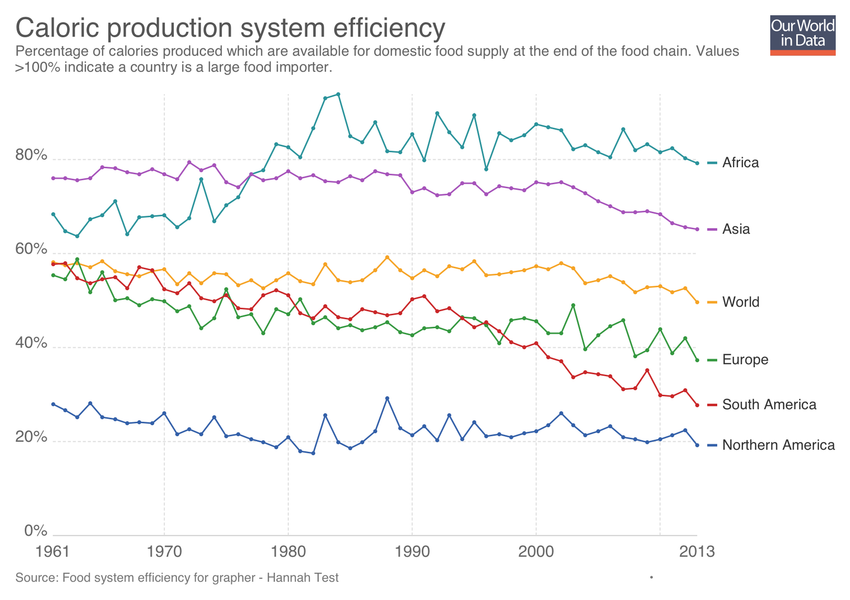
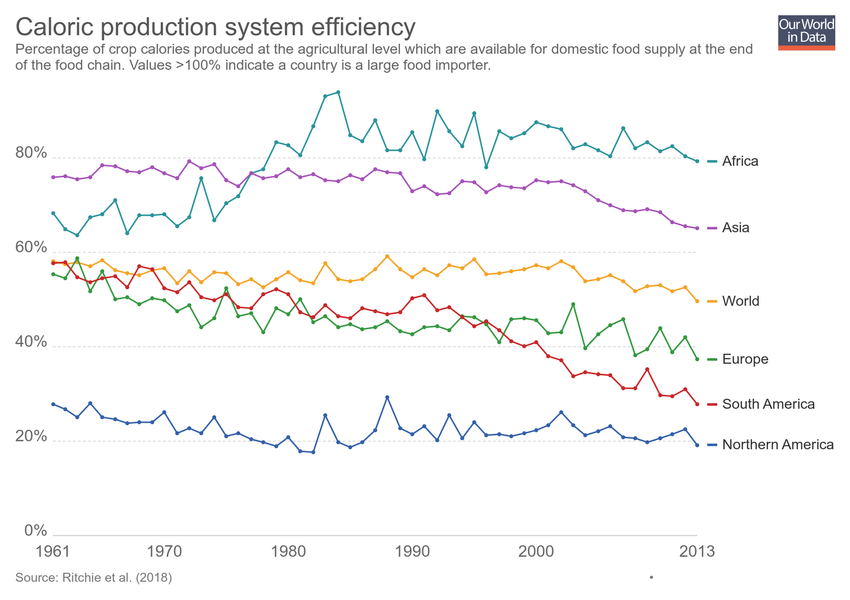
Updating chart food-system-efficiency

diff --git a/grapher/food-system-efficiency.html b/grapher/food-system-efficiency.html
@@ -1,4 +1,4 @@
-<!doctype html><html><head><meta name="viewport" content="width=device-width, initial-scale=1" /><title>Caloric production system efficiency - Our World in Data</title><meta name="description" content="Percentage of calories produced which are available for domestic food supply at the end of the food chain. Values &gt;100% indicate a country is a large food importer." /><link rel="canonical" href="https://ourworldindata.org/grapher/food-system-efficiency" /><meta property="fb:app_id" content="1149943818390250" /><meta property="og:url" content="https://ourworldindata.org/grapher/food-system-efficiency" /><meta property="og:title" content="Caloric production system efficiency" /><meta property="og:description" content="Percentage of calories produced which are available for domestic food supply at the end of the food chain. Values &gt;100% indicate a country is a large food importer." /><meta property="og:image" content="https://ourworldindata.org/grapher/exports/food-system-efficiency.png?v=1" /><meta property="og:image:width" content="850" /><meta property="og:image:height" content="600" /><meta property="og:site_name" content="Our World in Data" /><meta name="twitter:card" content="summary_large_image" /><meta name="twitter:site" content="@OurWorldInData" /><meta name="twitter:creator" content="@OurWorldInData" /><meta name="twitter:title" content="Caloric production system efficiency" /><meta name="twitter:description" content="Percentage of calories produced which are available for domestic food supply at the end of the food chain. Values &gt;100% indicate a country is a large food importer." /><meta name="twitter:image" content="https://ourworldindata.org/grapher/exports/food-system-efficiency.png?v=1" /><style>
+<!doctype html><html><head><meta name="viewport" content="width=device-width, initial-scale=1" /><title>Caloric production system efficiency - Our World in Data</title><meta name="description" content="Percentage of crop calories produced at the agricultural level which are available for domestic food supply at the end of the food chain. Values &gt;100% indicate a country is a large food importer." /><link rel="canonical" href="https://ourworldindata.org/grapher/food-system-efficiency" /><meta property="fb:app_id" content="1149943818390250" /><meta property="og:url" content="https://ourworldindata.org/grapher/food-system-efficiency" /><meta property="og:title" content="Caloric production system efficiency" /><meta property="og:description" content="Percentage of crop calories produced at the agricultural level which are available for domestic food supply at the end of the food chain. Values &gt;100% indicate a country is a large food importer." /><meta property="og:image" content="https://ourworldindata.org/grapher/exports/food-system-efficiency.png?v=2" /><meta property="og:image:width" content="850" /><meta property="og:image:height" content="600" /><meta property="og:site_name" content="Our World in Data" /><meta name="twitter:card" content="summary_large_image" /><meta name="twitter:site" content="@OurWorldInData" /><meta name="twitter:creator" content="@OurWorldInData" /><meta name="twitter:title" content="Caloric production system efficiency" /><meta name="twitter:description" content="Percentage of crop calories produced at the agricultural level which are available for domestic food supply at the end of the food chain. Values &gt;100% indicate a country is a large food importer." /><meta name="twitter:image" content="https://ourworldindata.org/grapher/exports/food-system-efficiency.png?v=2" /><style>
         html, body {
             height: 100%;
             margin: 0;
@@ -20,8 +20,8 @@
         }
     </style><noscript><style>
                     figure { display: none !important; }
-                </style></noscript><link rel="stylesheet" href="https://ourworldindata.org/grapher/assets/commons.bundle.019a92548339820130b6.css" /><link rel="preload" href="/grapher/data/variables/42573.json?v=1" as="fetch" crossorigin /></head><body class="singleChart"><figure data-grapher-src="/grapher/food-system-efficiency"></figure><noscript id="fallback"><img src="/grapher/exports/food-system-efficiency.svg" /><p>Interactive visualization requires JavaScript</p></noscript><script src="https://cdn.polyfill.io/v2/polyfill.min.js?features=es6,fetch"></script><script src="https://ourworldindata.org/grapher/assets/commons.bundle.019a92548339820130b6.js"></script><script src="https://ourworldindata.org/grapher/assets/charts.bundle.dcf65b68eddaba4c6a58.js"></script><script>
-        var jsonConfig = {"id":1008,"map":{"projection":"World","targetYear":2013,"variableId":42573,"timeTolerance":1,"legendStepSize":20,"baseColorScheme":"YlGnBu","isManualBuckets":true,"colorSchemeInvert":false,"colorSchemeLabels":["","","","","","","","","",""],"colorSchemeValues":[10,15,20,30,40,60,80,100,250,500],"defaultProjection":"World","legendDescription":"Caloric production system efficiency","customColorsActive":false,"colorSchemeMinValue":0,"customNumericColors":[],"customCategoryColors":{},"customCategoryLabels":{},"customHiddenCategories":{}},"tab":"chart","note":"","slug":"food-system-efficiency","type":"LineChart","title":"Caloric production system efficiency","xAxis":{"scaleType":"linear"},"yAxis":{"min":0,"suffix":" %","scaleType":"linear","labelDistance":-10},"version":1,"subtitle":"Percentage of calories produced which are available for domestic food supply at the end of the food chain. Values >100% indicate a country is a large food importer.","hasMapTab":true,"originUrl":"","stackMode":null,"dimensions":[{"id":9074,"order":0,"chartId":1008,"display":{"unit":"%"},"property":"y","targetYear":null,"variableId":42573}],"entityType":"country","hideLegend":false,"hasChartTab":true,"isPublished":true,"selectedData":[{"index":0,"entityId":355},{"index":0,"entityId":450},{"index":0,"entityId":276},{"index":0,"entityId":273},{"index":0,"entityId":275},{"index":0,"entityId":295}],"internalNotes":"TEST FOR HANNAH - Please don't share","addCountryMode":"add-country","hideRelativeToggle":false};
+                </style></noscript><link rel="stylesheet" href="https://ourworldindata.org/grapher/assets/commons.bundle.019a92548339820130b6.css" /><link rel="preload" href="/grapher/data/variables/42573.json?v=2" as="fetch" crossorigin /></head><body class="singleChart"><figure data-grapher-src="/grapher/food-system-efficiency"></figure><noscript id="fallback"><img src="/grapher/exports/food-system-efficiency.svg" /><p>Interactive visualization requires JavaScript</p></noscript><script src="https://cdn.polyfill.io/v2/polyfill.min.js?features=es6,fetch"></script><script src="https://ourworldindata.org/grapher/assets/commons.bundle.019a92548339820130b6.js"></script><script src="https://ourworldindata.org/grapher/assets/charts.bundle.dcf65b68eddaba4c6a58.js"></script><script>
+        var jsonConfig = {"id":1008,"map":{"projection":"World","targetYear":2013,"variableId":42573,"timeTolerance":1,"baseColorScheme":"YlGnBu","isManualBuckets":true,"colorSchemeInvert":false,"colorSchemeLabels":["","","","","","","","","",""],"colorSchemeValues":[10,15,20,30,40,60,80,100,250,500],"legendDescription":"Caloric production system efficiency","customColorsActive":false,"colorSchemeMinValue":0,"customNumericColors":[],"customCategoryColors":{},"customCategoryLabels":{},"customHiddenCategories":{}},"tab":"chart","note":"","slug":"food-system-efficiency","type":"LineChart","title":"Caloric production system efficiency","xAxis":{"scaleType":"linear"},"yAxis":{"min":0,"suffix":" %","scaleType":"linear","labelDistance":-10},"version":2,"subtitle":"Percentage of crop calories produced at the agricultural level which are available for domestic food supply at the end of the food chain. Values >100% indicate a country is a large food importer.","hasMapTab":true,"originUrl":"","stackMode":null,"dimensions":[{"display":{"unit":"%"},"property":"y","variableId":42573}],"entityType":"country","hideLegend":false,"sourceDesc":"Ritchie et al. (2018)","hasChartTab":true,"isPublished":true,"selectedData":[{"index":0,"entityId":355},{"index":0,"entityId":450},{"index":0,"entityId":276},{"index":0,"entityId":273},{"index":0,"entityId":275},{"index":0,"entityId":295}],"internalNotes":"TEST FOR HANNAH - Please don't share","addCountryMode":"add-country","hideRelativeToggle":false};
         var figure = document.getElementsByTagName("figure")[0];
         try {
             window.App = {};
